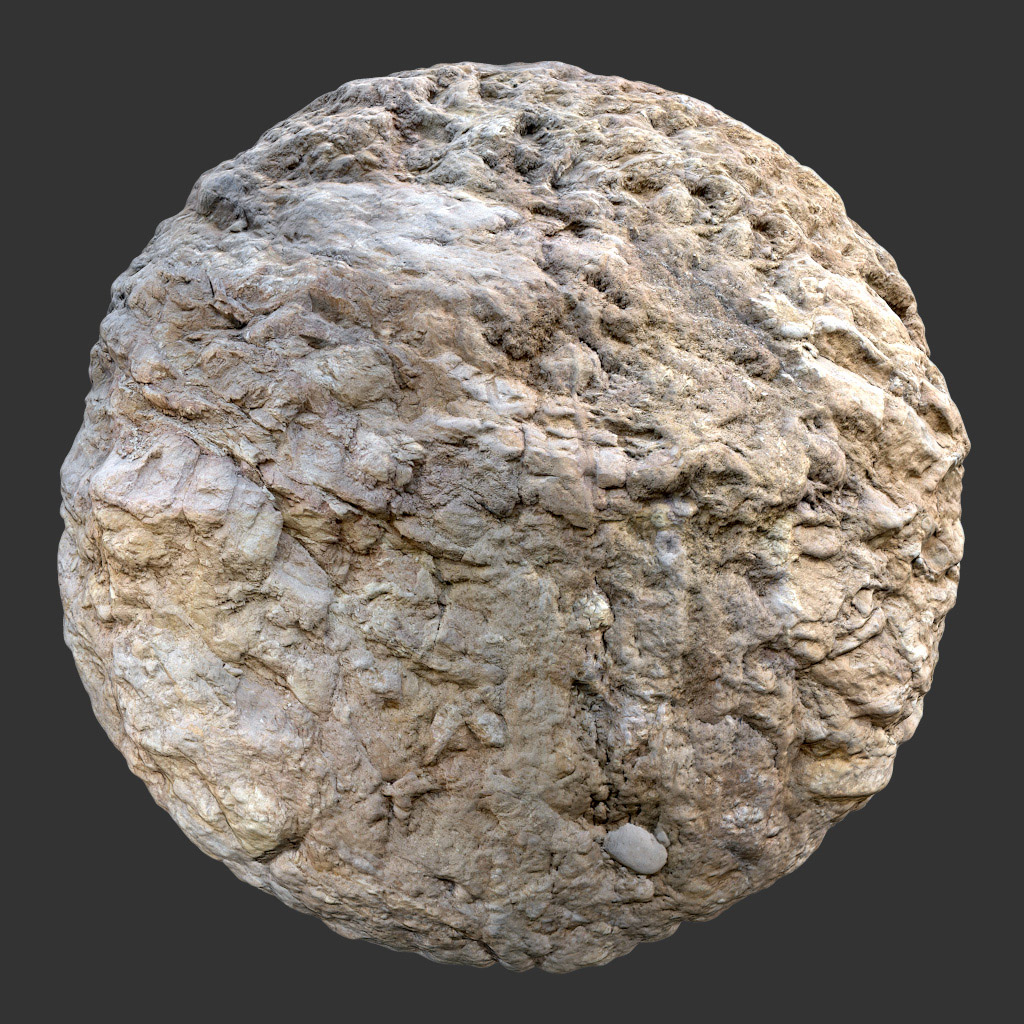
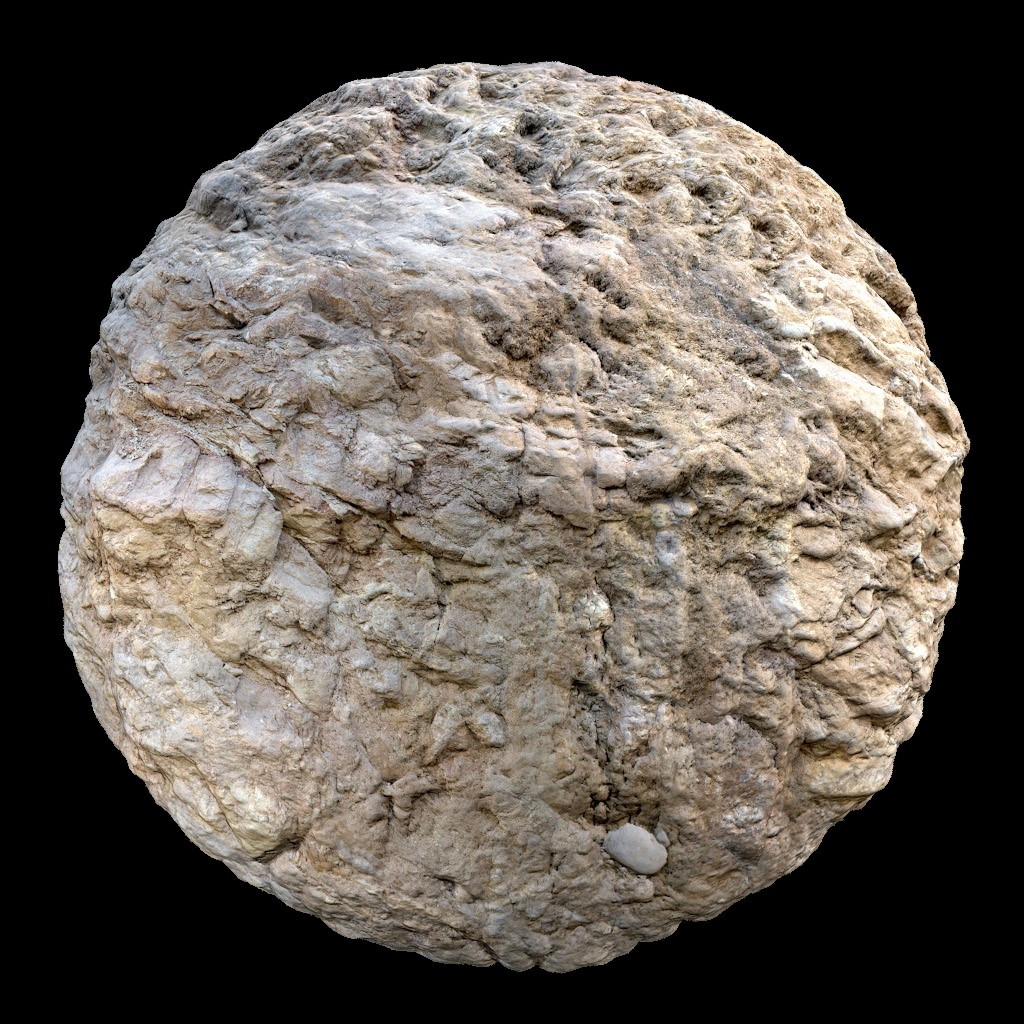
Added rotation

diff --git a/Code/GridTiles/application/view/pipeline.cpp b/Code/GridTiles/application/view/pipeline.cpp
@@ -12,6 +12,8 @@ static std::vector pipelines = {"Default", "Histogram", "CDF", "Blur"};
 PipelineTab::PipelineTab() = default;
 
 void PipelineTab::init() {
+	rotatedSource = std::make_unique<Texture>();
+	
 	sourceHistogram = std::make_unique<Texture>();
 	sourceCDF = std::make_unique<Texture>();
 
@@ -30,6 +32,10 @@ void PipelineTab::init() {
 	equalizedHistogram = std::make_unique<Texture>();
 	equalizedCDF = std::make_unique<Texture>();
 
+	wequalized = std::make_unique<Texture>();
+	wequalizedHistogram = std::make_unique<Texture>();
+	wequalizedCDF = std::make_unique<Texture>();
+	
 	blur = std::make_unique<Texture>();
 	sobelX = std::make_unique<Texture>();
 	sobelY = std::make_unique<Texture>();
@@ -58,8 +64,12 @@ void PipelineTab::render() {
 		ImGui::arrow();
 		ImGui::SameLine();
 		ImGui::image("Equalized", equalized->asImTexture());
+		ImGui::SameLine();
+		ImGui::arrow();
+		ImGui::SameLine();
+		ImGui::image("Weighted equalization", wequalized->asImTexture());
 		ImGui::NewLine();
-		ImGui::image("Source", screen->settings->sourceTexture->asImTexture());
+		ImGui::image("Source", rotatedSource->asImTexture());
 		ImGui::SameLine();
 		ImGui::arrow();
 		ImGui::SameLine();
@@ -79,6 +89,10 @@ void PipelineTab::render() {
 		ImGui::arrow();
 		ImGui::SameLine();
 		ImGui::image("Equalized hist", equalizedHistogram->asImTexture());
+		ImGui::SameLine();
+		ImGui::arrow();
+		ImGui::SameLine();
+		ImGui::image("Weighted hist", wequalizedHistogram->asImTexture());
 		ImGui::NewLine();
 		ImGui::image("Source hist", sourceHistogram->asImTexture());
 		ImGui::SameLine();
@@ -100,6 +114,10 @@ void PipelineTab::render() {
 		ImGui::arrow();
 		ImGui::SameLine();
 		ImGui::image("Equalized cdf", equalizedCDF->asImTexture());
+		ImGui::SameLine();
+		ImGui::arrow();
+		ImGui::SameLine();
+		ImGui::image("Weighted cdf", wequalizedCDF->asImTexture());
 		ImGui::NewLine();
 		ImGui::image("Source cdf", sourceCDF->asImTexture());
 		ImGui::SameLine();
@@ -112,7 +130,7 @@ void PipelineTab::render() {
 
 	// Edge
 	if (pipeline == 3) {
-		ImGui::image("Equalized", equalized->asImTexture());
+		ImGui::image("Equalized", wequalized->asImTexture());
 		ImGui::SameLine();
 		ImGui::arrow();
 		ImGui::SameLine();
@@ -144,33 +162,71 @@ void PipelineTab::render() {
 }
 
 void PipelineTab::reload() {
-	// Source histogram
-	ImageUtils::renderHistogram(screen->settings->sourceTexture->texture.get(), sourceHistogram.get());
-	ImageUtils::renderCDF(screen->settings->sourceTexture->texture.get(), sourceCDF.get());
+	onSourceChanged(false);
+	onTargetChanged(false);
+	onSourceOrTargetChanged(false);
+	onEqualizationWeightChanged(false);
+}
 
-	// Target histogram
+void PipelineTab::onSourceRotationChanged(bool propagate) {
+	// Source
+	auto size = screen->settings->sourceTexture->texture->data.size;
+	cv::Mat rotation = cv::getRotationMatrix2D(cv::Point2f(size[0] / 2.0f, size[1] / 2.0f), screen->settings->sourceRotation, 1.0f);
+	cv::warpAffine(screen->settings->sourceTexture->texture->data, rotatedSource->data, rotation, cv::Size(size[0], size[1]));
+	rotatedSource->reloadGL();
+
+	ImageUtils::computeGrayscale(rotatedSource.get(), sourceGrayscale.get());
+}
+
+void PipelineTab::onSourceChanged(bool propagate) {
+	// Source
+	onSourceRotationChanged(false);
+	
+	ImageUtils::renderHistogram(rotatedSource.get(), sourceHistogram.get());
+	ImageUtils::renderCDF(rotatedSource.get(), sourceCDF.get());
+
+	// Source grayscale
+	ImageUtils::renderHistogram(sourceGrayscale.get(), sourceGrayscaleHistogram.get());
+	ImageUtils::renderCDF(sourceGrayscale.get(), sourceGrayscaleCDF.get());
+
+	if (propagate)
+		onSourceOrTargetChanged(propagate);
+}
+
+void PipelineTab::onTargetChanged(bool propagate) {
+	// Target
 	ImageUtils::renderHistogram(screen->settings->targetTexture->texture.get(), targetHistogram.get());
 	ImageUtils::renderCDF(screen->settings->targetTexture->texture.get(), targetCDF.get());
 
-	// Grayscale
-	ImageUtils::computeGrayscale(screen->settings->sourceTexture->texture.get(), sourceGrayscale.get());
+	// Target grayscale
 	ImageUtils::computeGrayscale(screen->settings->targetTexture->texture.get(), targetGrayscale.get());
-
-	// Calculate grayscale histogram
-	ImageUtils::renderHistogram(sourceGrayscale.get(), sourceGrayscaleHistogram.get());
 	ImageUtils::renderHistogram(targetGrayscale.get(), targetGrayscaleHistogram.get());
-	ImageUtils::renderCDF(sourceGrayscale.get(), sourceGrayscaleCDF.get());
 	ImageUtils::renderCDF(targetGrayscale.get(), targetGrayscaleCDF.get());
 
+	if (propagate)
+		onSourceOrTargetChanged(propagate);
+}
+
+void PipelineTab::onSourceOrTargetChanged(bool propagate) {
 	// Calculate equalization
 	ImageUtils::renderEqualization(targetGrayscale.get(), sourceGrayscale.get(), equalized.get());
-
-	// Calculate equalization histogram
 	ImageUtils::renderHistogram(equalized.get(), equalizedHistogram.get());
 	ImageUtils::renderCDF(equalized.get(), equalizedCDF.get());
 
+	if (propagate)
+		onEqualizationWeightChanged(propagate);
+}
+
+
+void PipelineTab::onEqualizationWeightChanged(bool propagate) {
+	// Weighted equalization
+	cv::addWeighted(targetGrayscale->data, 1.0f - screen->settings->equalizationWeight, equalized->data, screen->settings->equalizationWeight, 0.0, wequalized->data);
+	wequalized->reloadGL();
+	ImageUtils::renderHistogram(wequalized.get(), wequalizedHistogram.get());
+	ImageUtils::renderCDF(wequalized.get(), wequalizedCDF.get());
+
 	// Blur
-	ImageUtils::renderBlur(equalized.get(), blur.get());
+	ImageUtils::renderBlur(wequalized.get(), blur.get());
 
 	// Sobel
 	ImageUtils::renderSobel(blur.get(), sobelX.get(), SobelType::X);

diff --git a/Code/GridTiles/application/view/settings.cpp b/Code/GridTiles/application/view/settings.cpp
@@ -11,6 +11,10 @@ void Settings::init() {
 	sourceTexture = std::make_unique<ImGui::TexturePicker>("Source texture");
 	targetTexture = std::make_unique<ImGui::TexturePicker>("Target texture");
 
+	edgeWeight = 0.5f;
+	intensityWeight = 0.5f;
+	equalizationWeight = 0.5f;
+
 	sourceTexture->load("../res/wood_sphere.jpg");
 	targetTexture->load("../res/cliff_sphere.jpg");
 
@@ -29,17 +33,39 @@ void Settings::render() {
 	ImGui::Text("Target drag: %s", screen->editor->seedPointsTab->targetDrag ? "Yes" : "No");
 
 	ImGui::Spacing();
+	ImGui::Separator();
+	ImGui::Spacing();
 
 	ImGui::Text("Intersected index: %d", screen->editor->seedPointsTab->intersectedIndex);
 	ImGui::Text("Intersected point: %s", Util::str(screen->editor->seedPointsTab->intersectedPoint).c_str());
 	ImGui::Text("Selected index: %d", screen->editor->seedPointsTab->intersectedIndex);
 	ImGui::Text("Selected point: %s", Util::str(screen->editor->seedPointsTab->selectedPoint).c_str());
 
+	ImGui::Spacing();
+	ImGui::Separator();
+	ImGui::Spacing();
+
+	if (ImGui::SliderFloat("Source rotation", &sourceRotation, 0.0f, 360.0f))
+		screen->editor->pipelineTab->onSourceRotationChanged(true);
+	
+	ImGui::Spacing();
+	ImGui::Separator();
+	ImGui::Spacing();
+	
+	ImGui::SliderFloat("Intensity weight", &intensityWeight, 0.0f, 1.0f);
+	ImGui::SliderFloat("Intensity weight", &edgeWeight, 0.0f, 1.0f);
+	if (ImGui::SliderFloat("Equalization weight", &equalizationWeight, 0.0f, 1.0f))
+		screen->editor->pipelineTab->onEqualizationWeightChanged(true);
+	
+	ImGui::Spacing();
+	ImGui::Separator();
+	ImGui::Spacing();
+
 	if (sourceTexture->render())
-		screen->editor->pipelineTab->reload();
+		screen->editor->pipelineTab->onSourceChanged(true);
 
 	if (targetTexture->render())
-		screen->editor->pipelineTab->reload();	
+		screen->editor->pipelineTab->onTargetChanged(true);	
 
 	ImGui::End();
 }

diff --git a/Code/GridTiles/application/view/seedpoints.cpp b/Code/GridTiles/application/view/seedpoints.cpp
@@ -23,14 +23,32 @@ void SeedPointsTab::update() {
 		intersectedIndex = -1;
 		intersectedPoint = offset;
 
+		bool tooltip = false;
 		for (int index = 0; index < seedPointPairs.size(); index++) {
 			const auto& [source, target] = seedPointPairs[index];
 
-			if (source.bounds().contains(intersectedPoint) && sourceHover)
+			if (source.bounds().contains(intersectedPoint) && sourceHover) {
 				intersectedIndex = index;
+				tooltip = true;
+				break;
+			}
 				
-			if (target.bounds().contains(intersectedPoint) && targetHover)
+			if (target.bounds().contains(intersectedPoint) && targetHover) {
 				intersectedIndex = index;
+				tooltip = true;
+				break;
+			}
+		}
+
+		if (tooltip) {
+			auto pos = ImGui::GetCursorPos();
+			ImGui::SetCursorPos(ImGui::GetMousePos());
+			ImGui::BeginTooltip();
+			ImGui::Text("X: %f", 2.1f);
+			ImGui::Text("Y: %f", 4.2f);
+			ImGui::Text("Size: %f", 3.3);
+			ImGui::EndTooltip();
+			ImGui::SetCursorPos(pos);
 		}
 	}
 	else {

diff --git a/Code/GridTiles/application/view/pipeline.h b/Code/GridTiles/application/view/pipeline.h
@@ -3,6 +3,8 @@
 
 class PipelineTab {
 public:
+	URef<Texture> rotatedSource;
+	
 	URef<Texture> sourceHistogram;
 	URef<Texture> sourceCDF;
 
@@ -21,6 +23,10 @@ public:
 	URef<Texture> equalizedHistogram;
 	URef<Texture> equalizedCDF;
 
+	URef<Texture> wequalized;
+	URef<Texture> wequalizedHistogram;
+	URef<Texture> wequalizedCDF;
+
 	URef<Texture> blur;
 	URef<Texture> sobelX;
 	URef<Texture> sobelY;
@@ -34,4 +40,10 @@ public:
 	void render();
 
 	void reload();
+	
+	void onSourceChanged(bool propagate);
+	void onTargetChanged(bool propagate);
+	void onSourceOrTargetChanged(bool propagate);
+	void onSourceRotationChanged(bool propagate);
+	void onEqualizationWeightChanged(bool propagate);
 };

diff --git a/Code/GridTiles/application/view/settings.h b/Code/GridTiles/application/view/settings.h
@@ -7,6 +7,12 @@ public:
 	URef<ImGui::TexturePicker> sourceTexture;
 	URef<ImGui::TexturePicker> targetTexture;
 
+	float sourceRotation = 0.0f;
+	
+	float intensityWeight;	
+	float edgeWeight;
+	float equalizationWeight;
+
 	Settings();
 
 	void init();

diff --git a/Management/Timeline.md b/Management/Timeline.md
@@ -69,5 +69,8 @@
 | 2021-11-27 | Finished cdf equalization       | 3    |
 | 2021-11-28 | Refactoring                     | 1.5  |
 | 2021-11-28 | Sobel, Blur, Canny              | 2    |
-|            |                                 |      |
+| Totaal     |                                 | 12.5 |
 
+| Week 10    | Beschrijving | Uren |
+| ---------- | ------------ | ---- |
+| 2021-11-29 |              |      |
